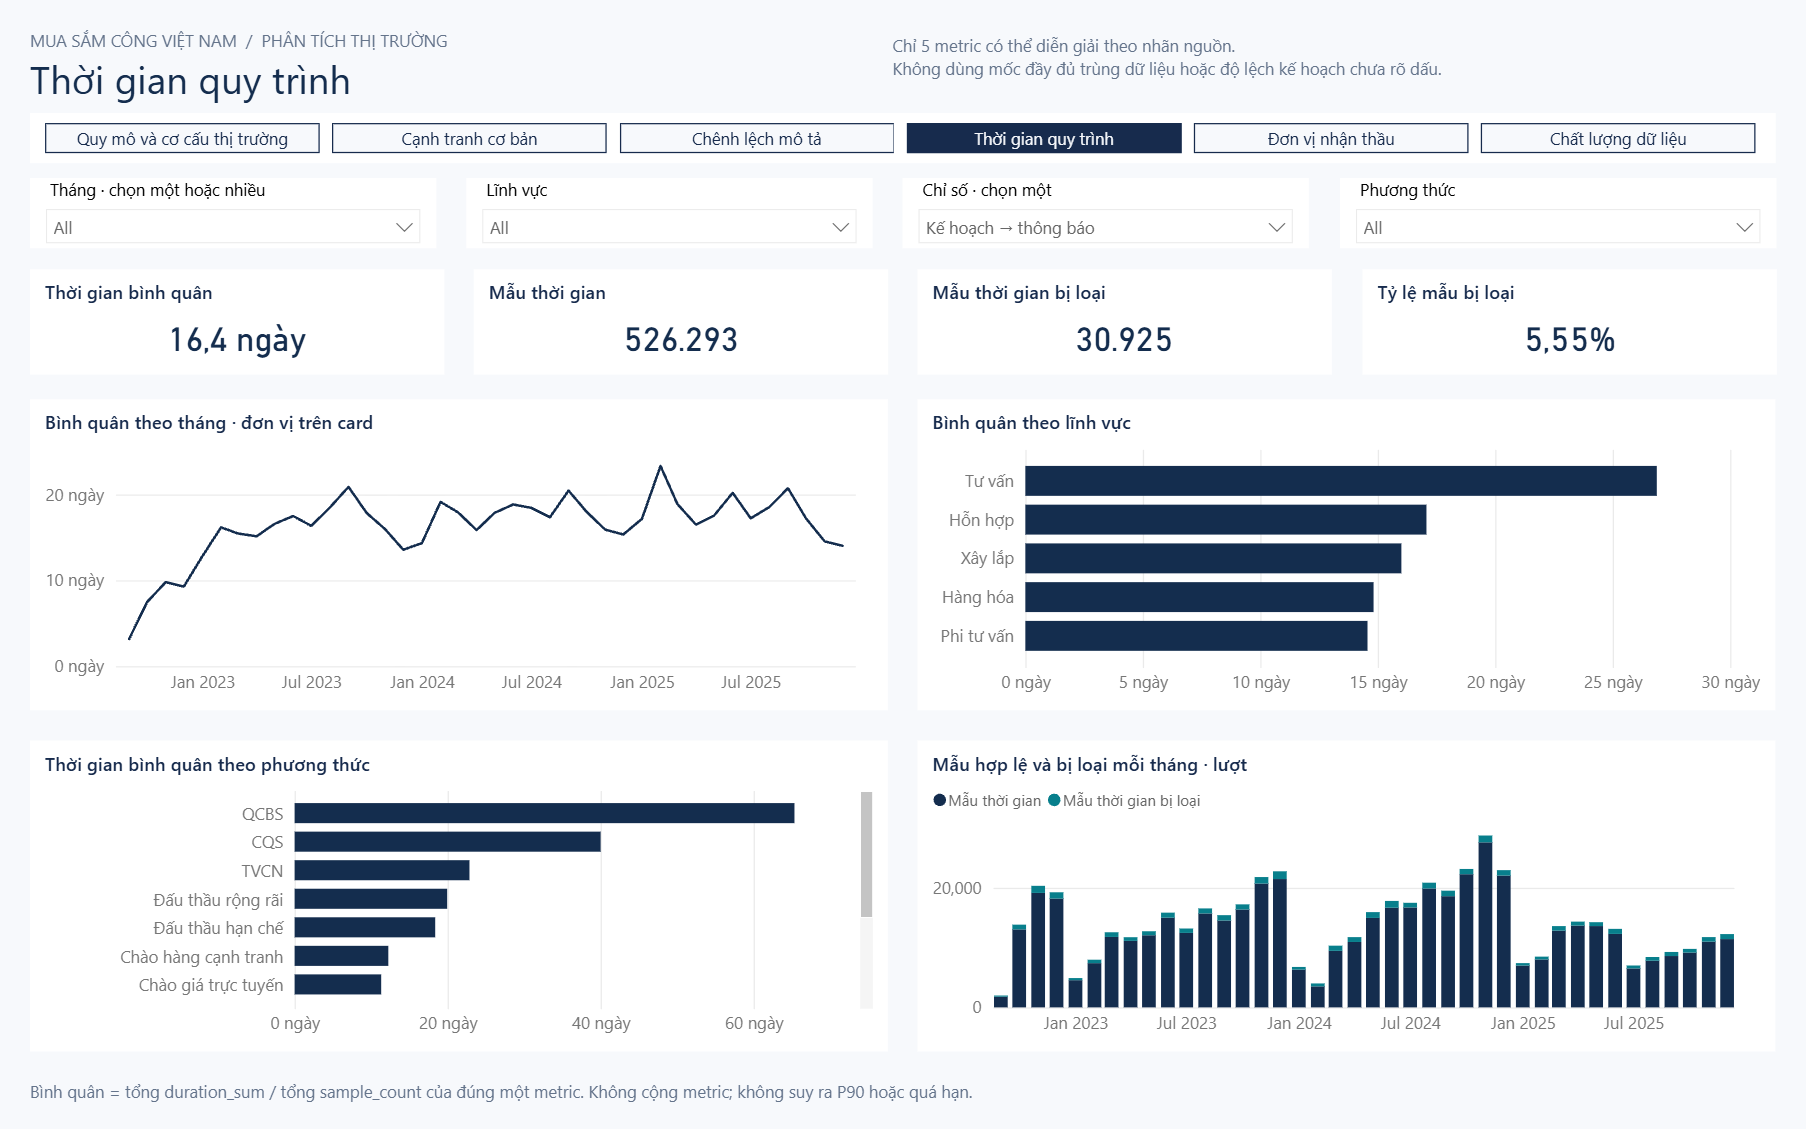
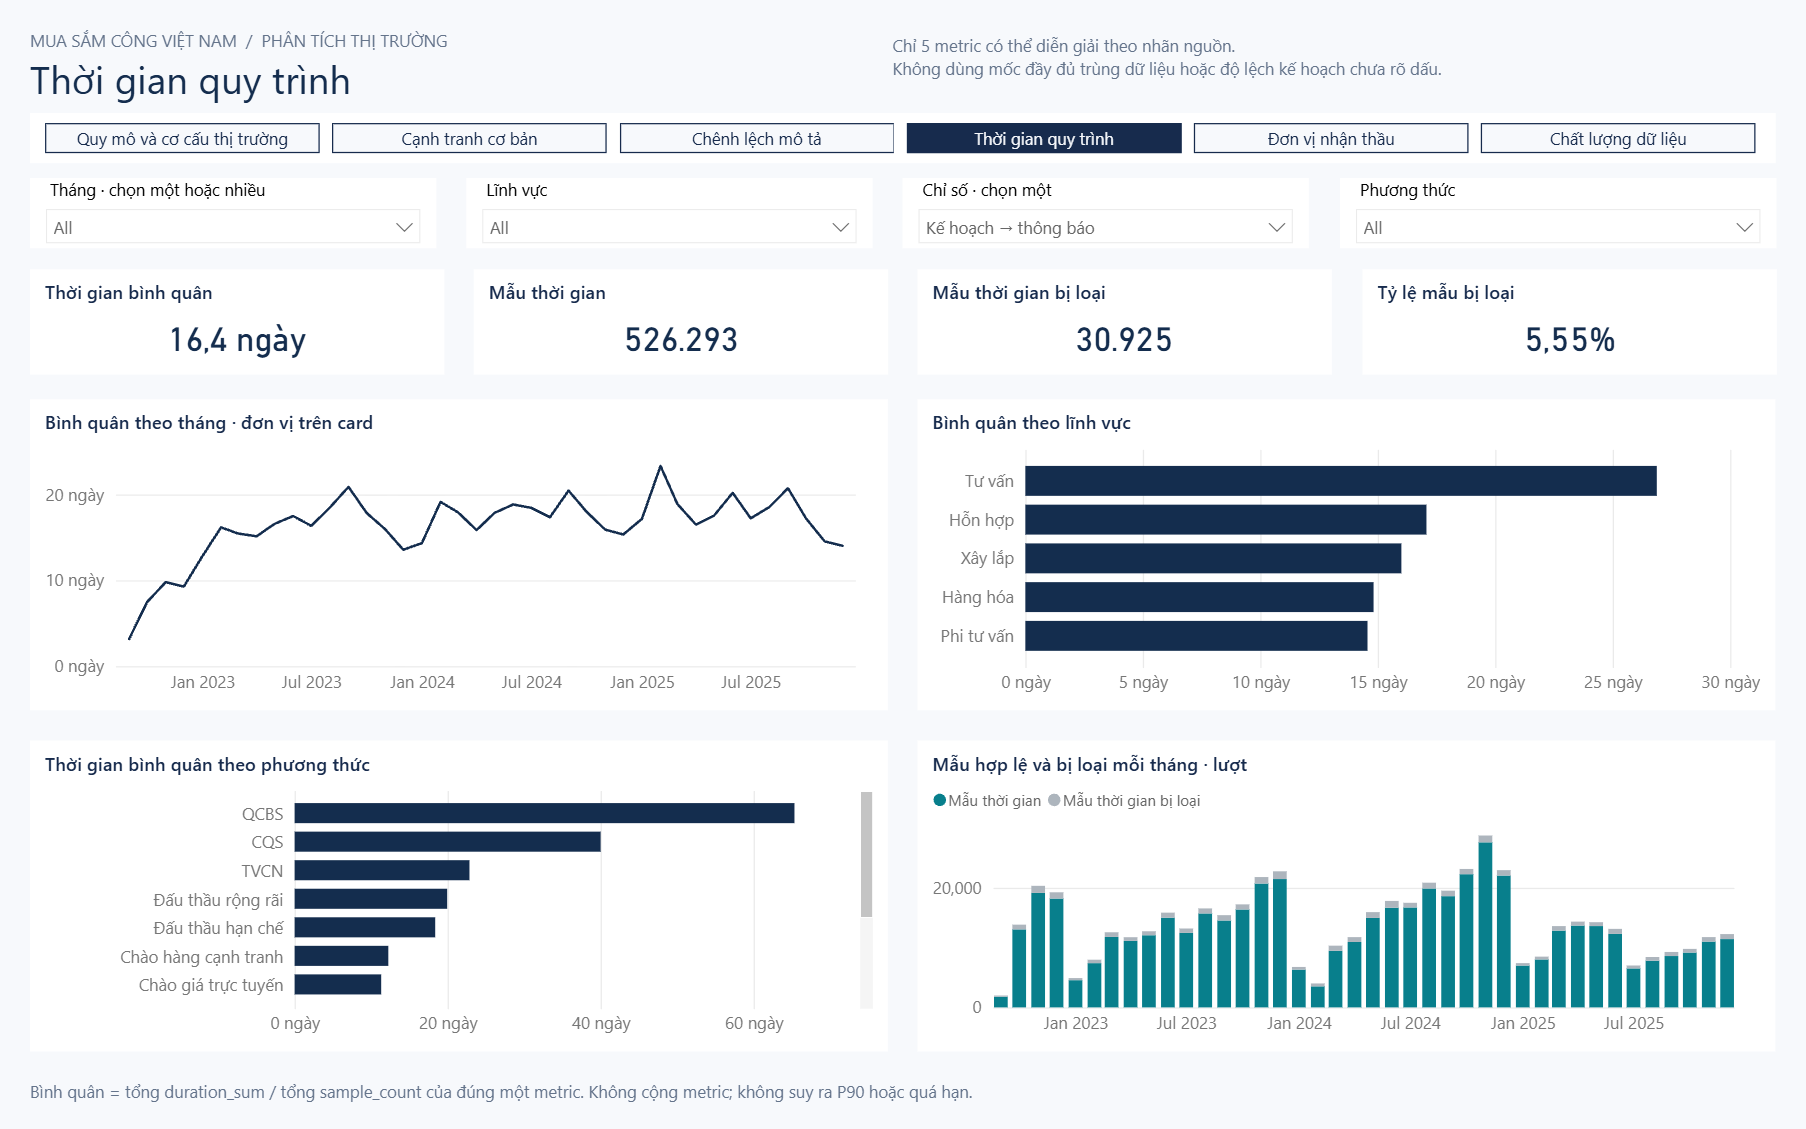
feat(theme): update color palette and visual configurations for improved aesthetics

Changed region(s): [[0.5581, 0.744, 0.9612, 0.899]]

diff --git a/PowerBI/ProcurementDashboard/tools/build_project.py b/PowerBI/ProcurementDashboard/tools/build_project.py
@@ -11,6 +11,16 @@ MODEL = PROJECT / 'ProcurementDashboard.SemanticModel'
 REPORT = PROJECT / 'ProcurementDashboard.Report'
 BASE = 'https://developer.microsoft.com/json-schemas/fabric/'
 NAVY, TEAL, INK, MUTED, BG = '#142D4E', '#087F8C', '#172B4D', '#64748B', '#F7F9FC'
+STEEL, OCHRE, SAGE, NEUTRAL = '#6487AD', '#A87945', '#86B8A9', '#ADB5BD'
+PALETTE = [NAVY, TEAL, STEEL, OCHRE, SAGE, NEUTRAL]
+SERIES_COLORS = {
+    'Trúng thầu · tỷ VND': TEAL, 'Phân bổ · tỷ VND': TEAL,
+    'Độ phủ giá trúng': TEAL, 'Độ phủ mẫu mô tả': NAVY,
+    'Tỷ trọng giá kế hoạch VND': NAVY, 'Tỷ trọng gói VND': STEEL,
+    'Mẫu mô tả': TEAL, 'Mẫu thời gian': TEAL,
+    'Mẫu ngoài so sánh': NEUTRAL, 'Mẫu thời gian bị loại': NEUTRAL,
+    'Đối sánh tập chọn': OCHRE, 'Tỷ trọng Top 10 người nhận': TEAL,
+}
 MEASURES = {}
 MONEY = '#,0.00;(#,0.00);0.00'
 COUNT = '#,0'
@@ -265,7 +275,7 @@ class Page:
             'legend':obj(show=lit(len(measures)>1),fontSize=lit(9)),
             'categoryAxis':obj(fontSize=lit(10),showAxisTitle=lit(False),preferredCategoryWidth=lit(14),maxMarginFactor=lit(40)),
             'valueAxis':obj(fontSize=lit(10),showAxisTitle=lit(False),labelDisplayUnits=lit(1)),
-            'dataPoint':[{'properties':{'fill':color([NAVY,TEAL,'#F59E0B','#64748B'][i%4])},'selector':{'metadata':'_Measures.'+n}} for i,n in enumerate(measures)]})
+            'dataPoint':[{'properties':{'fill':color(SERIES_COLORS.get(n, PALETTE[i % len(PALETTE)]))},'selector':{'metadata':'_Measures.'+n}} for i,n in enumerate(measures)]})
         v['visual']['query']['sortDefinition']={'sort':[{'field':field(*category[:2]) if category[0]=='dim_date' else field('_Measures',measures[0],'Measure'),'direction':'Ascending' if category[0]=='dim_date' else 'Descending'}],'isDefaultSort':True}
         if typ=='lineChart':
             v['visual']['objects']['categoryAxis']=obj(fontSize=lit(10),axisType=lit('Scalar'),showAxisTitle=lit(False))
@@ -282,7 +292,7 @@ def categorical(t,p,values):
 def report():
     save(REPORT/'definition.pbir',{'$schema':BASE+'item/report/definitionProperties/2.0.0/schema.json','version':'4.0','datasetReference':{'byPath':{'path':'../'+MODEL.name}}})
     save(REPORT/'definition/version.json',{'$schema':BASE+'item/report/definition/versionMetadata/1.0.0/schema.json','version':'2.0.0'})
-    theme={'name':'Procurement Enterprise','dataColors':[NAVY,TEAL,'#F59E0B','#64748B','#DC4C4C','#DDF3F2'],
+    theme={'name':'Procurement Enterprise','dataColors':PALETTE,
         'background':BG,'foreground':INK,'tableAccent':TEAL,
         'textClasses':{'title':{'fontFace':'Segoe UI Semibold','fontSize':12,'color':INK},'label':{'fontFace':'Segoe UI','fontSize':10,'color':MUTED},'callout':{'fontFace':'Segoe UI Semibold','fontSize':24,'color':NAVY}},
         'visualStyles':{'*':{'*':{'visualHeader':[{'show':False}],'dropShadow':[{'show':False}]}},

diff --git a/PowerBI/ProcurementDashboard/tools/gold_v3_dashboard.py b/PowerBI/ProcurementDashboard/tools/gold_v3_dashboard.py
@@ -203,8 +203,8 @@ def report_pages():
     p.filters(geography=True)
     p.cards(['Số gói kế hoạch', 'Kế hoạch · tỷ VND', 'Lượt kết quả hiệu lực', 'Trúng thầu · tỷ VND'])
     p.chart('trend', 'lineChart', month, ['Kế hoạch · tỷ VND', 'Trúng thầu · tỷ VND'], 24, 308, w=844, title='Giá trị kế hoạch và giá trúng theo tháng · tỷ VND')
-    sector_colors = {'Hàng hóa': b.TEAL, 'Xây lắp': b.NAVY, 'Phi tư vấn': '#6487AD',
-                     'Tư vấn': '#A87945', 'Hỗn hợp': '#86B8A9', 'Chưa xác định': '#ADB5BD'}
+    sector_colors = {'Hàng hóa': b.TEAL, 'Xây lắp': b.NAVY, 'Phi tư vấn': b.STEEL,
+                     'Tư vấn': b.OCHRE, 'Hỗn hợp': b.SAGE, 'Chưa xác định': b.NEUTRAL}
     slices = [
         {'properties': {'fill': b.color(fill)}, 'selector': {'data': [{'scopeId': {'Comparison': {
             'ComparisonKind': 0, 'Left': b.field(*sector[:2]), 'Right': b.lit(label)['expr']}}}]}}
